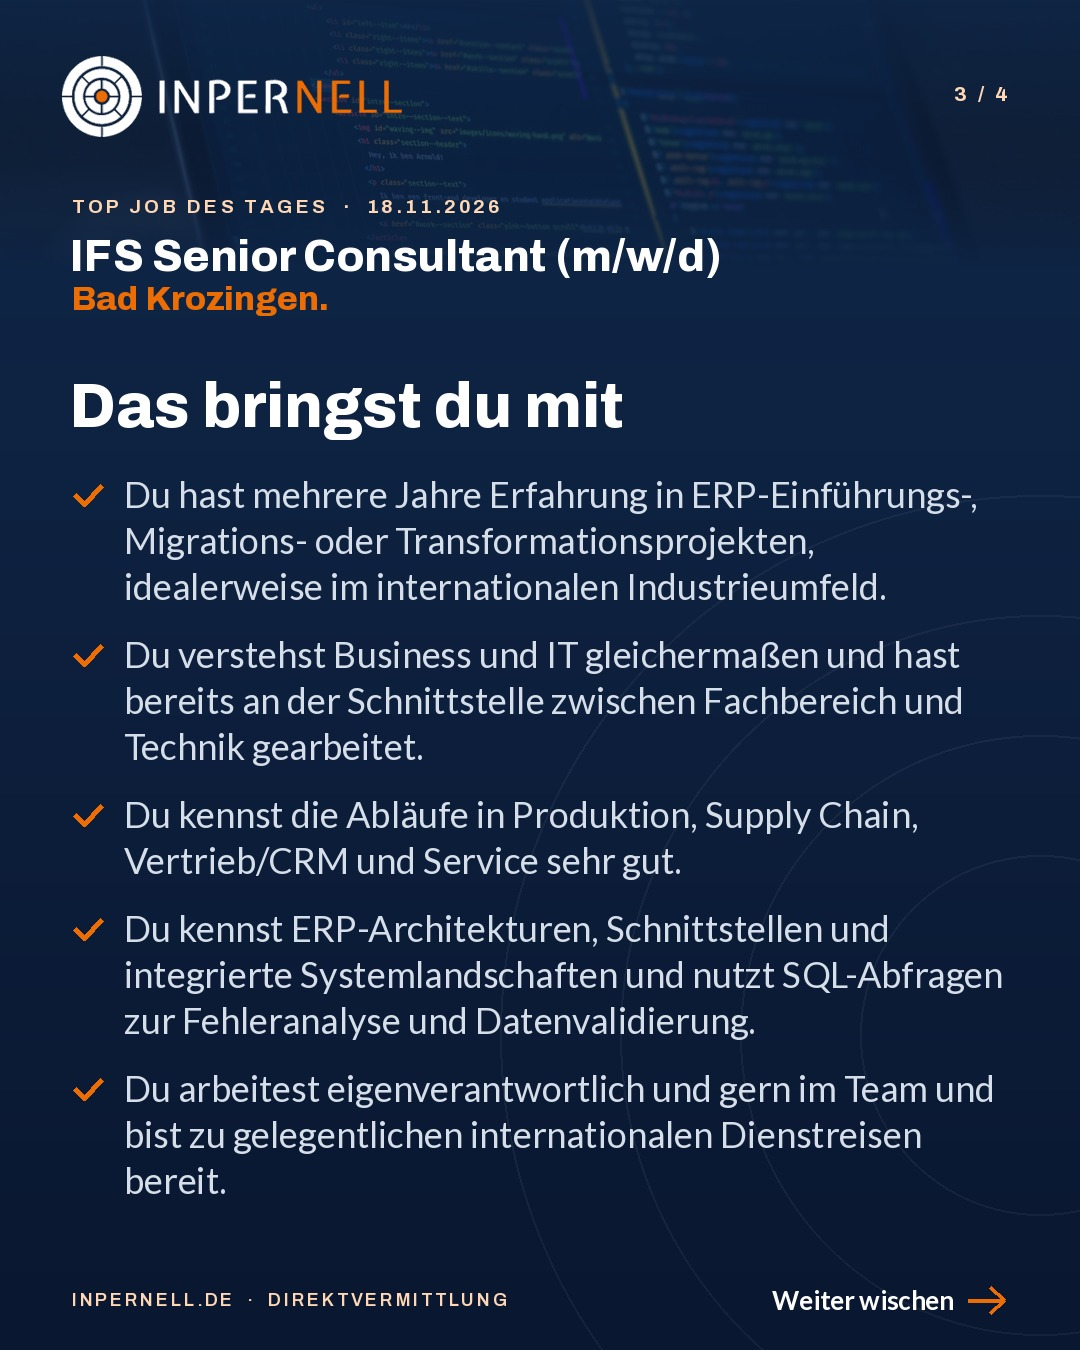
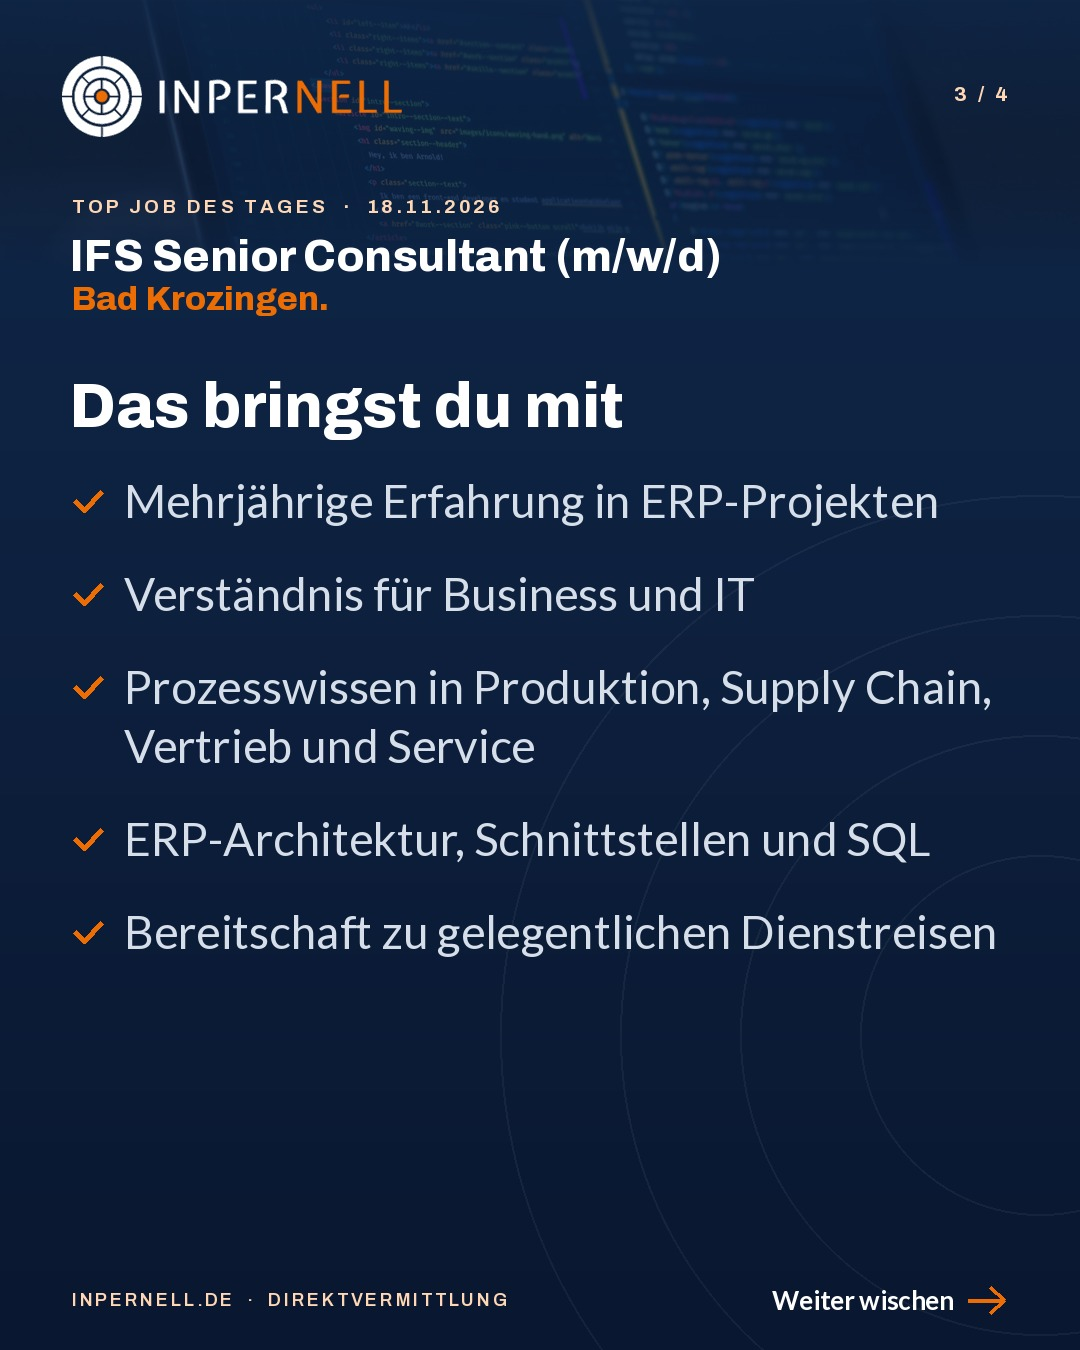
Karussell: kurze Stichpunkte statt langer Sätze, größere Schrift, 'Deine Aufgaben'
Claude-Session: https://claude.ai/code/session_01CMhTnVDmbL7RTLVGma6XXH

diff --git a/bild.py b/bild.py
@@ -449,11 +449,11 @@ def _listenseite(job, kat, nr, gesamt, ueberschrift, punkte, ziel):
     # werden hintere Punkte weggelassen – abgeschnitten wird nie.
     unten = H - 120
     for anzahl in range(len(punkte), 0, -1):
-        for groesse in (36, 33, 30, 28, 26):
+        for groesse in (46, 42, 38, 34, 30):
             fp = font("t400", groesse)
             zh = int(groesse * 1.3)
             bloecke = [wrap(d, p, fp, breite) for p in punkte[:anzahl]]
-            if y + sum(len(b) * zh + 22 for b in bloecke) <= unten:
+            if y + sum(len(b) * zh + 34 for b in bloecke) <= unten:
                 break
         else:
             continue
@@ -463,7 +463,7 @@ def _listenseite(job, kat, nr, gesamt, ueberschrift, punkte, ziel):
         d.line([(M + 2, cy), (M + 12, cy + 10), (M + 30, cy - 9)], fill=ORANGE, width=6, joint="curve")
         for j, zeile in enumerate(b):
             d.text((M + 52, y + j * zh), zeile, font=fp, fill=HELL)
-        y += len(b) * zh + 22
+        y += len(b) * zh + 34
     _fuss(d, "INPERNELL.DE  ·  DIREKTVERMITTLUNG")
     img.convert("RGB").save(ziel, "JPEG", quality=92, optimize=True)
     return ziel
@@ -482,10 +482,10 @@ def _bewerbungsseite(job, kat, nr, gesamt, ziel):
     d.text((M - 3, y), "So bewirbst du dich", font=font("h800", 62), fill=WEISS)
     y += 100
     schritte = [
-        ("Link in der Bio antippen", "Dort findest du die komplette Stellenanzeige."),
-        ("Lebenslauf hochladen", "Ein Anschreiben ist nicht nötig." if job.get("ohne_anschreiben", True)
-         else "In wenigen Minuten erledigt."),
-        ("Oder per Direktnachricht", "Schreib uns „Interesse“ – wir melden uns bei dir."),
+        ("Link in der Bio antippen", "Zur kompletten Stellenanzeige"),
+        ("Lebenslauf hochladen", "Kein Anschreiben nötig" if job.get("ohne_anschreiben", True)
+         else "In wenigen Minuten erledigt"),
+        ("Oder per Direktnachricht", "„Interesse“ schreiben – wir melden uns"),
     ]
     kh = 118
     img_rgba = img
@@ -508,8 +508,8 @@ def _bewerbungsseite(job, kat, nr, gesamt, ziel):
     img_rgba = Image.alpha_composite(img_rgba, ov)
     d = ImageDraw.Draw(img_rgba)
     _papierflieger(d, M + 30, y + 38, 56, ORANGE)
-    d.text((M + 112, y + 28), "Kennst du jemanden, für den das passt?", font=font("t700", 31), fill=WEISS)
-    d.text((M + 112, y + 74), "Schick ihm den Beitrag weiter.", font=font("t400", 29), fill=HELL)
+    d.text((M + 112, y + 28), "Kennst du jemanden, der passt?", font=font("t700", 31), fill=WEISS)
+    d.text((M + 112, y + 74), "Beitrag einfach weiterschicken", font=font("t400", 29), fill=HELL)
     _fuss(d, "KEINE ZEITARBEIT  ·  FÜR DICH KOSTENLOS  ·  INPERNELL.DE", rechts_pfeil=False)
     img_rgba.convert("RGB").save(ziel, "JPEG", quality=92, optimize=True)
     return ziel
@@ -520,7 +520,7 @@ def erzeuge_folgeseiten(job, ordner, basisname):
     kat = job.get("kategorie") or kategorien.erkenne(job.get("titel"))
     seiten = []
     if len(job.get("aufgaben") or []) >= 2:
-        seiten.append(("Das erwartet dich", job["aufgaben"]))
+        seiten.append(("Deine Aufgaben", job["aufgaben"]))
     if len(job.get("anforderungen") or []) >= 2:
         seiten.append(("Das bringst du mit", job["anforderungen"]))
     gesamt = len(seiten) + 2

diff --git a/agent.py b/agent.py
@@ -264,7 +264,7 @@ def bildtext(titel, ort, kat, gehalt_text, fk, aufgaben, anforderungen, ohne_ans
     if ort:
         zeilen.append(f"📍 {ort}")
     zeilen.append("")
-    for liste, ueberschrift in ((aufgaben, "Das erwartet dich:"), (anforderungen, "Das bringst du mit:")):
+    for liste, ueberschrift in ((aufgaben, "Deine Aufgaben:"), (anforderungen, "Das bringst du mit:")):
         # Sätze in der Sie-Form passen nicht zur Du-Ansprache auf Instagram und werden ausgelassen
         gut = [p for p in liste if not SIE_FORM.search(p)]
         if len(gut) >= 2:
